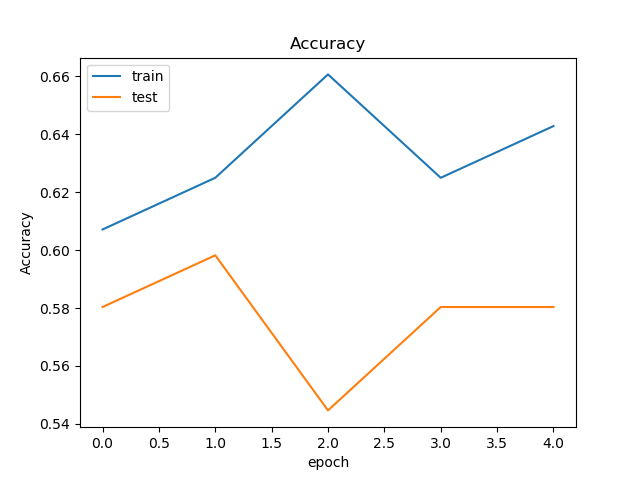
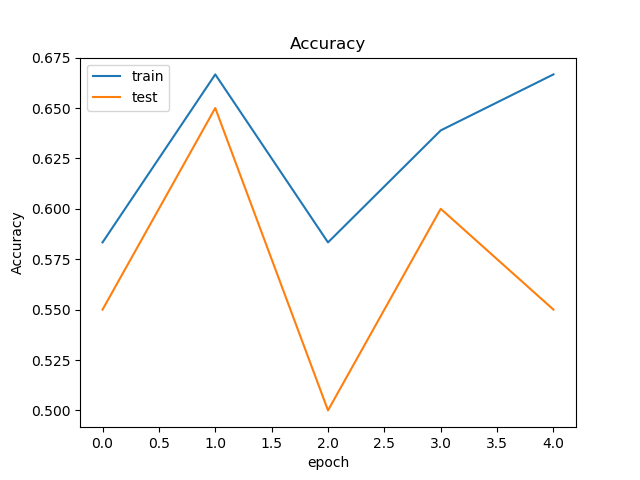
clean-lr+val_step+ep_step-change+train_test_dist-change

diff --git a/train_update.py b/train_update.py
@@ -167,9 +167,9 @@ final_model.compile(loss='binary_crossentropy', optimizer=adm, metrics=['accurac
     
 # print("\n\nFOLD : " + str(num+1))
 history = final_model.fit_generator(generate_data(path, batchSize, 'train'), 
-                                        steps_per_epoch = 28,
+                                        steps_per_epoch = 33/batchSize,
                                         validation_data = generate_data(path, batchSize, 'test'),
-                                        validation_steps= 28,
+                                        validation_steps= 19/batchSize,
                                         epochs=no_of_epochs, 
                                         verbose=1)
     # scores = final_model.evaluate_generator(generate_data(path, batchSize, num, 'test'), steps= testSteps, verbose=1)
